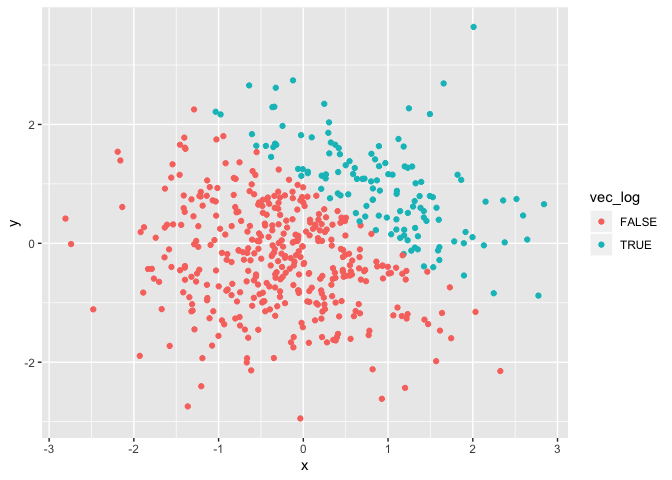
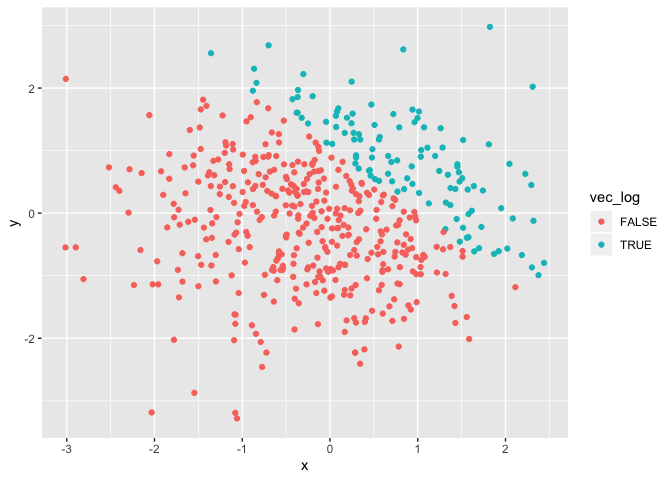
committing updated homework #1

diff --git a/p8105_hw1_at3346.md b/p8105_hw1_at3346.md
@@ -3,9 +3,13 @@ p8105\_hw1\_at3346
 Ashley Tseng
 9/20/2019
 
-## Problem 1
+# Problem 1
+
+## Creating dataframe and taking means of variables:
 
 ``` r
+set.seed(7)
+
 prob1_df = tibble(
   random_samp = rnorm(8),
   random_samp_zero = random_samp > 0,
@@ -16,13 +20,13 @@ prob1_df = tibble(
 mean(prob1_df[["random_samp"]])
 ```
 
-    ## [1] -0.3943447
+    ## [1] -0.1628599
 
 ``` r
 mean(prob1_df[["random_samp_zero"]])
 ```
 
-    ## [1] 0.375
+    ## [1] 0.25
 
 ``` r
 mean(prob1_df[["vec_char"]])
@@ -47,8 +51,9 @@ but not of “vec\_char” and “vec\_fac” because the last two are
 non-numeric
 variables.
 
+## Applying the “as.numeric” function to the logical, character, and factor variables:
+
 ``` r
-# Applying the as.numeric function to the logical, character, and factor variables:
 transform(prob1_df, random_samp_zero = as.numeric(random_samp_zero))
 transform(prob1_df, vec_char = as.numeric(vec_char)
 transform(prob1_df, vec_fac = as.numeric(vec_fac))
@@ -61,11 +66,11 @@ variable. However, R was unable to take the mean of the factor variable
 when the levels were
 non-numeric.
 
+## Converting and multiplying vectors:
+
 ``` r
-# Convert the logical vector to numeric, and multiply the random sample by the result:
 mult1 = as.numeric(prob1_df[["random_samp_zero"]])*(prob1_df[["random_samp"]])
 
-# Convert the logical vector to a factor, and multiply the random sample by the result:
 mult2 = factor(prob1_df[["random_samp_zero"]])*(prob1_df[["random_samp"]])
 ```
 
@@ -73,20 +78,21 @@ mult2 = factor(prob1_df[["random_samp_zero"]])*(prob1_df[["random_samp"]])
     ## (prob1_df[["random_samp"]])): '*' not meaningful for factors
 
 ``` r
-# Convert the logical vector to a factor and then convert the result to numeric, and multiply the random sample by the result:
 conv1 = factor(prob1_df[["random_samp_zero"]])
 mult = as.numeric(conv1)*(prob1_df[["random_samp"]])
 ```
 
-## Problem 2
+# Problem 2
 
 ``` r
+set.seed(8)
+
 prob2_df = tibble(
   x = rnorm(500),
   y = rnorm(500),
   vec_log = x + y > 1,
   vec_num = as.numeric(vec_log),
-  vec_fac = factor(vec_log)
+  vec_fac = as.factor(vec_log)
 )
 
 prob2_df_nrow = nrow(prob2_df)
@@ -100,22 +106,39 @@ vec_gr1 = mean(pull(prob2_df, vec_num))
 ```
 
 The number of rows in the dataset is 500. The number of columns in the
-dataset is 5. The mean of x is -0.07. The median of x is -0.05. The
-standard deviation of x is 1. The proportion of cases for which x + y \>
-1 is 0.
+dataset is 5. The mean of x is -0.07. The median of x is -0.06. The
+standard deviation of x is 1.02. The proportion of cases for which x + y
+\> 1 is
+0.
+
+## Scatterplots of the logical, numeric, and factor variables:
 
 ``` r
-# Scatterplot of y vs x; color points using the logical variable:
 plot1 = ggplot(prob2_df, aes(x = x, y = y, color = vec_log)) + geom_point()
+plot1
+```
 
-# Scatterplot of y vs x; color points using the numeric variable:
+![](p8105_hw1_at3346_files/figure-gfm/problem_2_scatterplots-1.png)<!-- -->
+
+``` r
 plot2 = ggplot(prob2_df, aes(x = x, y = y, color = vec_num)) + geom_point()
+plot2
+```
 
-# Scatterplot of y vs x; color points using the factor variable:
+![](p8105_hw1_at3346_files/figure-gfm/problem_2_scatterplots-2.png)<!-- -->
+
+``` r
 plot3 = ggplot(prob2_df, aes(x = x, y = y, color = vec_fac)) + geom_point()
+plot3
+```
 
+![](p8105_hw1_at3346_files/figure-gfm/problem_2_scatterplots-3.png)<!-- -->
+
+``` r
 ggsave("plot1.pdf")
 ```
+
+    ## Saving 7 x 5 in image
 
 On the scatterplot for the logical variable, points for which “vec\_log”
 = TRUE are displayed in blue while points for which “vec\_log” = FALSE
